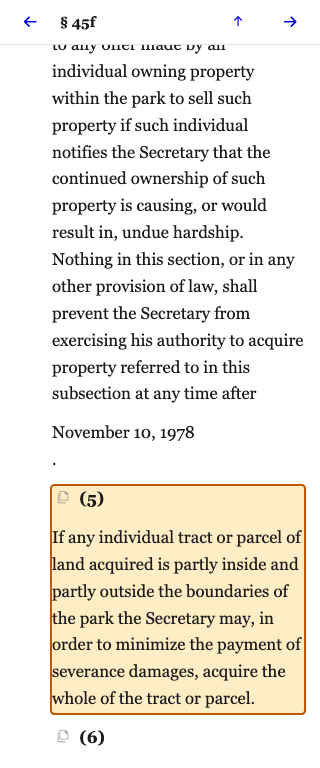
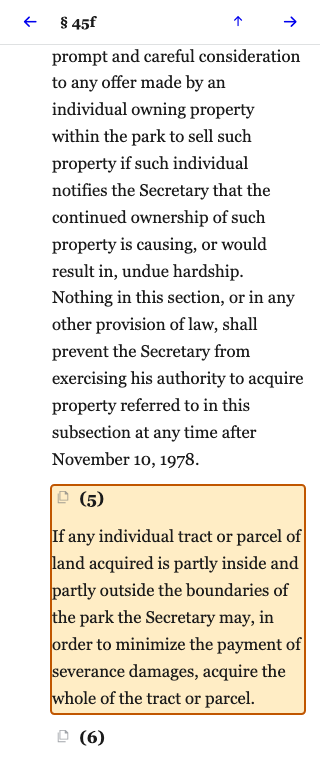
Record session 24 in CLAUDE.md and BUILDLOG
Clears the <date> open debt, updates the test counts, and adds the
regenerated screenshots.

Changed region(s): [[0.1562, 0.0625, 0.9375, 0.625], [0.1562, 0.6875, 0.9375, 0.8125]]

diff --git a/CLAUDE.md b/CLAUDE.md
@@ -46,7 +46,16 @@ CSS px and at 1280 zoomed to 200% (WCAG 1.4.10 and 1.4.4). Playwright's `globalS
 for this live in `frontend/scripts/`, not `tests/e2e/` — **a global hook inside `testDir` is loaded as
 part of the config, and every spec under it then collects as zero tests.**
 
-`make test` = **486** Python tests; `make test-web` = **213** frontend tests; `make test-e2e` = **355**
+**The inline/block partition in `uslm.ts` is measured, not remembered** (ADR-0040).
+`scripts/inline_elements.py` counts how often each USLM element sits beside a non-whitespace text
+node across the committed samples → `docs/verification/inline-elements.json`, and
+`tests/uslm.test.ts` walks that artifact asserting nothing it found in prose renders as a `<div>`.
+Elements the source uses **both** ways — `note` (30,981 block / 883 inline), `quotedContent` (875 /
+2,701) — are in `CONTEXTUAL_TAGS` and decided per occurrence by `inRunningProse(el)`, marked
+`.uslm-inlined`. `term` and `quote` do not exist in either schema's samples. The same test runs in
+`collectBlocks`, so the redline does not split a sentence at a footnote marker.
+
+`make test` = **486** Python tests; `make test-web` = **227** frontend tests; `make test-e2e` = **356**
 Playwright tests, 245 of which are the accessibility scan (**all three are required** — reader
 coverage lives in Vitest since Jinja retired), and
 **CI runs all three on every push** (`.github/workflows/ci.yml`, Postgres service container, offline
@@ -54,7 +63,7 @@ fixtures via `make ci-data`, `USC_REQUIRE_INTEGRATION=1` so a misconfigured job 
 nothing).
 
 **Session history lives in [BUILDLOG.md](BUILDLOG.md)** — one entry per session, and in `docs/adr/`
-(39 ADRs). Read the entry you need rather than assuming; this file deliberately no longer restates them.
+(40 ADRs). Read the entry you need rather than assuming; this file deliberately no longer restates them.
 
 **Deployed** to one EC2 box at `uscode.linkedlegislation.org` (ADR-0020 + ADR-0035): images built by
 Actions on arm64 and pushed to ECR, deploys by SSM, corpus seeded by `pg_restore` from the mirror.
@@ -89,7 +98,7 @@ is weaker than specified**: the task asked that serious/critical fail regardless
 which would land the harness red, so `waiveSeverity` lets a dated, owner-signed line through —
 recorded as ADR-0039's cost. **`docs/a11y/manual-protocol.md` does not exist** (task A9), so the half
 of WCAG 2.1 AA axe cannot see is unmeasured, and **no conformance statement is published** (task
-A10). **the rate limiters are per-process state**, honest for ADR-0020's single box and wrong for a second instance (ADR-0029's recorded cost); **the CSP carries `script-src 'unsafe-inline'`** until the islands get nonces through the new Astro middleware (ADR-0030's recorded cost); **no email verification and no password reset — accounts are throwaway until email exists, decided and recorded in ADR-0019** rather than left as a gap; `docs/verification/loadtest.json` has never been regenerated against the deployed site, and it now also predates ADR-0037's `Disallow: /`, so any future run measures a site nothing is crawling (`docs/deploy-status.md`); **nothing in this deployment can verify its own S3 retention rules** — the `usc/db/` lifecycle rules exist (created in the console 2026-08-03; the dump itself is no longer nightly, it runs from `update-corpus.sh` gated on `load-all` having actually loaded something), but `s3:GetLifecycleConfiguration` is denied to every credential here, so that is the one claim in `docs/deploy-status.md` resting on a console screenshot rather than a re-runnable command. `deploy/mirror-lifecycle.sh` is the reproducible version and needs a temporary grant (`deploy/mirror-lifecycle-bootstrap-policy.json`) to run; the box deliberately cannot do any of it, since the instance role has `s3:PutObject` on `usc/*` and no `s3:DeleteObject`; **appendix titles are unreachable by citation** — `5 U.S.C. App. 3` parses to `/us/usc/t5a/s3` and OLRC publishes nothing there (0 of 461 appendix sections use the flat form; they are `/us/usc/t5a/pl/92/463/s1` or `/us/usc/t50a/act/1917-05-18/ch15/s212`), so the API explains rather than 404s; the preview endpoint is unauthenticated and fans out per hovered citation — **now rate-limited in `frontend/src/middleware.ts` (ADR-0029)**, still unauthenticated; **USLM `<date>` renders as a block**, so dates break mid-sentence throughout the notes — one entry in `uslm.ts`'s inline set, left out of a scoped refresh; **the reader's redline drops `<ref>` links and cannot see a whitespace-only change** (ADR-0026's named costs); **the deployed search index is complete — 489,578 documents, 65,929 current and 423,649 superseded (`docs/deploy-status.md`, built 2026-08-02), so `?release=` search does reach back through superseded text**; a *local* index is whatever you last built (`python -m ingest.reindex_search --recreate` for the 66k current-text index the default query reads, `--all-versions` additively for the 490k superseded ones), and the response names the release it searched, so which one you got is visible. `/app/search/syntax` claimed the current-text-only limit for a fortnight after it stopped being true, which is what ADR-0038 exists to prevent; the search endpoint is unauthenticated — **now throttled and input-bounded (ADR-0029)**; **a section the source publishes twice under one identifier at one release (ADR-0021) shares an OpenSearch `_id`**, so the index keeps one of the two; the diff endpoint is CPU-bound — ~0.45 rps at any concurrency, failing entirely past ~10 concurrent — and is **now rate-limited (ADR-0029, the tightest budget in the project)**, so it sheds with 429 + `Retry-After` rather than collapsing; `docs/verification/loadtest.json` predates that and has not been regenerated; **~half the API diff's cost is `@id` churn rather than legal change** — diffing the guid-stripped text is 2,220 ms → 1,172 ms and 51 → 20 ops; the *reader* no longer pays it (ADR-0026 moved the reader to a text redline), the endpoint still does, and `docs/verification/loadtest.json` is stale for `/app/diff` as a result; **accounts and bulk downloads are switched off in the reader but their API routes are untouched** — ADR-0034 is a UI decision, so `POST /api/v1/auth/signup` still works for a direct caller; **the copy column adds ~100 tab stops to a long section** and its copied text drops notes and `sourceCredit` (ADR-0033's named costs); **link mode has no plain-text fallback** — if the `ClipboardItem` write throws (older Firefox, plain HTTP on a non-localhost host) the reader is told "Could not copy" and gets nothing, where the bare URL would still be useful (BUILDLOG 034, raised and left unchanged); **the labels batching has no end-to-end test** because CI's fixture corpus tops out at 75 cross references (16 U.S.C. § 1801) against a bound of 100, so an e2e assertion would pass with or without the fix — real cover needs a denser fixture title in `make ci-data` (BUILDLOG 034); **2.4 MB of vendored Swagger UI / ReDoc is committed**, so a security fix in either arrives only when someone bumps `static/apidocs/MANIFEST.json` (ADR-0032's named cost); **HEAD is 405 on every `/api/v1` route** (FastAPI registers GET alone), which matters once a CDN or uptime monitor is in front; `purge_login_failures` is now on a weekly cron on the deployed box but nothing calls it in dev; **the general `/api/v1/watchlists` multi-list CRUD has no frontend UI** (only the default-list convenience endpoints the reader uses are wired to a page); a deduped fragment carries the guids of the release its text first appeared at (ADR-0007's recorded cost); `structure_nodes` is unversioned — one row per node, holding **the newest loaded release's view**; `first_release_id`/`last_release_id` bound its life, and both those and the descriptive fields are gated on `seq`, so load order doesn't decide the answer (an older load silently relabelled a `reserved` subchapter `repealed` before that gate existed). Per-release structural history is still owed; **the source sometimes publishes several elements under one `@identifier` at one release point — the reader shows every occurrence with a note rather than picking one (ADR-0021), and `sections_loaded` therefore exceeds `section_release_map` on six title-releases**; `Uslm2Parser` has no table/indent handling (Day 7); `make verify` is real (ADR-0014) and `--deep` has now been run over the whole corpus — **3,153 of 3,153 title-versions independently recounted from source, 0 source mismatches, 0 incomplete loads** (`docs/verification/database.json`); the six count mismatches it reports are the source publishing several elements under one `@identifier` (ADR-0021), left reported rather than smoothed away. **Test speed rule:** default `make test` never parses the 32 MB usc16.xml — unit tests use `tests/fixtures/usc16_slice.xml` (regenerate with `make fixtures`); full-sample tests are `@pytest.mark.slow`, run by `make test-slow`. API integration tests need a loaded database (`make dev-data`) and skip without one.
+A10). **the rate limiters are per-process state**, honest for ADR-0020's single box and wrong for a second instance (ADR-0029's recorded cost); **the CSP carries `script-src 'unsafe-inline'`** until the islands get nonces through the new Astro middleware (ADR-0030's recorded cost); **no email verification and no password reset — accounts are throwaway until email exists, decided and recorded in ADR-0019** rather than left as a gap; `docs/verification/loadtest.json` has never been regenerated against the deployed site, and it now also predates ADR-0037's `Disallow: /`, so any future run measures a site nothing is crawling (`docs/deploy-status.md`); **nothing in this deployment can verify its own S3 retention rules** — the `usc/db/` lifecycle rules exist (created in the console 2026-08-03; the dump itself is no longer nightly, it runs from `update-corpus.sh` gated on `load-all` having actually loaded something), but `s3:GetLifecycleConfiguration` is denied to every credential here, so that is the one claim in `docs/deploy-status.md` resting on a console screenshot rather than a re-runnable command. `deploy/mirror-lifecycle.sh` is the reproducible version and needs a temporary grant (`deploy/mirror-lifecycle-bootstrap-policy.json`) to run; the box deliberately cannot do any of it, since the instance role has `s3:PutObject` on `usc/*` and no `s3:DeleteObject`; **appendix titles are unreachable by citation** — `5 U.S.C. App. 3` parses to `/us/usc/t5a/s3` and OLRC publishes nothing there (0 of 461 appendix sections use the flat form; they are `/us/usc/t5a/pl/92/463/s1` or `/us/usc/t50a/act/1917-05-18/ch15/s212`), so the API explains rather than 404s; the preview endpoint is unauthenticated and fans out per hovered citation — **now rate-limited in `frontend/src/middleware.ts` (ADR-0029)**, still unauthenticated; **the reader's redline drops `<ref>` links and cannot see a whitespace-only change** (ADR-0026's named costs); **the deployed search index is complete — 489,578 documents, 65,929 current and 423,649 superseded (`docs/deploy-status.md`, built 2026-08-02), so `?release=` search does reach back through superseded text**; a *local* index is whatever you last built (`python -m ingest.reindex_search --recreate` for the 66k current-text index the default query reads, `--all-versions` additively for the 490k superseded ones), and the response names the release it searched, so which one you got is visible. `/app/search/syntax` claimed the current-text-only limit for a fortnight after it stopped being true, which is what ADR-0038 exists to prevent; the search endpoint is unauthenticated — **now throttled and input-bounded (ADR-0029)**; **a section the source publishes twice under one identifier at one release (ADR-0021) shares an OpenSearch `_id`**, so the index keeps one of the two; the diff endpoint is CPU-bound — ~0.45 rps at any concurrency, failing entirely past ~10 concurrent — and is **now rate-limited (ADR-0029, the tightest budget in the project)**, so it sheds with 429 + `Retry-After` rather than collapsing; `docs/verification/loadtest.json` predates that and has not been regenerated; **~half the API diff's cost is `@id` churn rather than legal change** — diffing the guid-stripped text is 2,220 ms → 1,172 ms and 51 → 20 ops; the *reader* no longer pays it (ADR-0026 moved the reader to a text redline), the endpoint still does, and `docs/verification/loadtest.json` is stale for `/app/diff` as a result; **accounts and bulk downloads are switched off in the reader but their API routes are untouched** — ADR-0034 is a UI decision, so `POST /api/v1/auth/signup` still works for a direct caller; **the copy column adds ~100 tab stops to a long section** and its copied text drops notes and `sourceCredit` (ADR-0033's named costs); **link mode has no plain-text fallback** — if the `ClipboardItem` write throws (older Firefox, plain HTTP on a non-localhost host) the reader is told "Could not copy" and gets nothing, where the bare URL would still be useful (BUILDLOG 034, raised and left unchanged); **the labels batching has no end-to-end test** because CI's fixture corpus tops out at 75 cross references (16 U.S.C. § 1801) against a bound of 100, so an e2e assertion would pass with or without the fix — real cover needs a denser fixture title in `make ci-data` (BUILDLOG 034); **2.4 MB of vendored Swagger UI / ReDoc is committed**, so a security fix in either arrives only when someone bumps `static/apidocs/MANIFEST.json` (ADR-0032's named cost); **HEAD is 405 on every `/api/v1` route** (FastAPI registers GET alone), which matters once a CDN or uptime monitor is in front; `purge_login_failures` is now on a weekly cron on the deployed box but nothing calls it in dev; **the general `/api/v1/watchlists` multi-list CRUD has no frontend UI** (only the default-list convenience endpoints the reader uses are wired to a page); a deduped fragment carries the guids of the release its text first appeared at (ADR-0007's recorded cost); `structure_nodes` is unversioned — one row per node, holding **the newest loaded release's view**; `first_release_id`/`last_release_id` bound its life, and both those and the descriptive fields are gated on `seq`, so load order doesn't decide the answer (an older load silently relabelled a `reserved` subchapter `repealed` before that gate existed). Per-release structural history is still owed; **the source sometimes publishes several elements under one `@identifier` at one release point — the reader shows every occurrence with a note rather than picking one (ADR-0021), and `sections_loaded` therefore exceeds `section_release_map` on six title-releases**; `Uslm2Parser` has no table/indent handling (Day 7); `make verify` is real (ADR-0014) and `--deep` has now been run over the whole corpus — **3,153 of 3,153 title-versions independently recounted from source, 0 source mismatches, 0 incomplete loads** (`docs/verification/database.json`); the six count mismatches it reports are the source publishing several elements under one `@identifier` (ADR-0021), left reported rather than smoothed away. **Test speed rule:** default `make test` never parses the 32 MB usc16.xml — unit tests use `tests/fixtures/usc16_slice.xml` (regenerate with `make fixtures`); full-sample tests are `@pytest.mark.slow`, run by `make test-slow`. API integration tests need a loaded database (`make dev-data`) and skip without one.
 
 ## Architecture rules (PLAN §2)
 
@@ -257,6 +266,10 @@ make demo-video # replay the guide's `demo: true` scenarios with their captions 
 make test-slow  # full-sample parser integration tests (~4 s): counts vs samples/, memory bound
 make test-all   # both
 make fixtures   # regenerate tests/fixtures/usc16_slice.xml from samples/uslm1/usc16.xml
+uv run python scripts/inline_elements.py
+                # recount which USLM elements occur in running prose across the committed
+                # samples → docs/verification/inline-elements.json, which tests/uslm.test.ts
+                # reads element by element (ADR-0040). No database, no network.
 make verify     # (TBD — stub, exits 1) full-corpus counts vs source XML → docs/verification/, PLAN §11.5, Day 7
 docker compose up --build   # full containerized stack (db + api) instead of `make dev`'s local API
 ```

diff --git a/BUILDLOG.md b/BUILDLOG.md
@@ -957,3 +957,20 @@ Session-by-session record of how this site was built. One entry per working sess
 - **Carried along, not mine:** `CLAUDE.md`'s documentation-duty 7 (guide prose describes behaviour, not rationale) arrived uncommitted from the previous session and is included in this one's `CLAUDE.md` commit.
 - **Candidate tasks found, not fixed (scope discipline).** `/app/us/usc` answers **400** and `/app/us/usc/t5a/s3` answers **404** in the reader, so neither is in the scan matrix — the appendix case is the known citation gap, but a reader 404 where the API explains is its own defect. `html-has-lang` on `/docs` and `/redoc` is ours rather than the vendor's: those shells come from `get_swagger_ui_html` and `get_redoc_html` in `main.py`, and it is a one-line fix that A4 now owns. And `docs/verification/a11y.json` is regenerated by any full `make test-e2e`, so it will show up in `git status` after an unrelated run.
 - **Left owed:** A2 through A10. `docs/a11y/manual-protocol.md` (A9) does not exist, so the half of WCAG 2.1 AA axe cannot see is unmeasured, and no conformance statement is published (A10) — `/app/accessibility` is named in the matrix's exclusions with the instruction to add it in the same commit that adds the page.
+
+## 041 — 2026-08-04 — Session 24: the inline set was written from memory
+
+- **Tool/model:** Claude Code, Opus 5.
+- **Asked:** Workstream A task A2 — add `date` to the inline element set in `frontend/src/lib/uslm.ts`, then audit the whole inline/block partition against the USLM vocabulary rather than fixing one entry, with a table-driven Vitest case per element so the next omission is a one-line addition.
+- **Measured rather than guessed, and that is the whole of it.** `scripts/inline_elements.py` counts, for every element across the four committed USLM 1.x and 2.x samples, how often it sits beside a non-whitespace text node — the empirical form of "occurs in running prose", and the same question the renderer has to answer. 18 elements do. `docs/verification/inline-elements.json` is the artifact; re-run with `uv run python scripts/inline_elements.py`.
+- **`<date>`: 20,513 occurrences in running prose and zero anywhere else.** It was in neither the inline set nor anyone's memory of it, so it fell through to the `<div>` at the bottom of `renderElement` — a block in the middle of every sentence in every editorial note. CLAUDE.md had carried it as a formatting nuisance; it is WCAG 1.3.2, because a block reorders the sequence a screen reader announces mid-sentence in the one part of the page a drafter reads for amendment history. `<footnote>` is the same shape: 1,051 inline, 0 isolated.
+- **Decided ([ADR-0040](docs/adr/0040-inline-or-block-is-decided-per-occurrence.md)): a name is not always enough, so elements the source uses both ways are decided per occurrence.** `<note>` is an editorial note 30,981 times and a footnote marker inside a sentence 883 times ("…the Act of March 1, 1872, *1 See References in Text note below.* reserving lands…"); `<quotedContent>` is a block quotation 875 times and a quoted phrase 2,701 times. Classified by name, whichever way it goes, thousands of occurrences are wrong. `CONTEXTUAL_TAGS` + `inRunningProse(el)` asks the markup instead, and marks the inline case `.uslm-inlined`.
+- **The same bug was in the redline.** `collectBlocks` (ADR-0026) has `note` in `LINE_BREAK_TAGS`, so an inline footnote marker flushed and one sentence redlined as three blocks. Same test, same fix.
+- **Where the line is drawn, with the ratios:** `<p>` 50 of 58,865, `<table>` 26 of 822, `<list>` 8 of 36, `<heading>` 3 of 87,190, `<proviso>` 2 of 5 also appear beside text and stay blocks — under 1% is the source being odd, and a `<heading>` as a `<span>` would cost the document outline that task A4 depends on more than three sentences are worth. Each is listed in the test with its ratio, so the exception is a diff rather than an omission.
+- **Produced:** `scripts/inline_elements.py`, `docs/verification/inline-elements.json`, the `INLINE_TAGS`/`CONTEXTUAL_TAGS` changes and `inRunningProse` in `uslm.ts`, `.uslm-inlined` in `site.scss`, 14 new Vitest cases driven by the artifact, ADR-0040, and a `dates-read-inline` scenario in guide chapter 02.
+- **Verified:** `make test` 486 green; `make test-web` **227** (was 213: +14); `make test-e2e` **356** (was 355: +1 scenario). `make shots` passes and its diff is real — the demo, section-provision and guide-chapter frames all changed. On the fixture section the page went from **12 `<div class="uslm-date">` to 12 `<span class="uslm-date">`**, and the note now reads "The Act of August 25, 1916 (39 Stat. 535…" as one sentence. **Checked by sabotage:** deleting `date: "span"` from `INLINE_TAGS` failed exactly three tests — the element's own case, the explicit `<date>` case, and the catch-all that walks the artifact — and nothing else.
+- **Named costs, in the ADR.** An element's rendering now depends on its siblings, so two `<note>`s with identical content can render differently; `.uslm-inlined` is what makes that visible in the output. A `<quotedContent>` in prose whose quoted material has internal structure produces a `<span>` wrapping a `<div>` — browsers render it, validators will not like it, and the alternative is 2,701 broken sentences. **The measurement is four files, not 58 titles**, so an element that only appears in prose in some unsampled title is still classified by the `<div>` fallback; widening the sample is one command.
+- **`term` and `quote` do not exist.** A2 named both as elements to check. Neither appears in any sample, in either schema, in any position. Recorded in the ADR so the next person does not go looking.
+- **Side effect, worth knowing:** `CopyColumn` decides line breaks by whether a node is a block, so a date inside a note used to break the copied line and no longer does (ADR-0033).
+- **Candidate tasks found, not fixed (scope discipline).** `docs/screenshots/demo-video-*.png` churn on every `make shots` run regardless of code changes — the `<video>` frame is nondeterministic, so those four files show as modified in every session that regenerates shots. Worth either pinning the poster frame or excluding that page from the shot set.
+- **Left owed:** A3 through A10.
